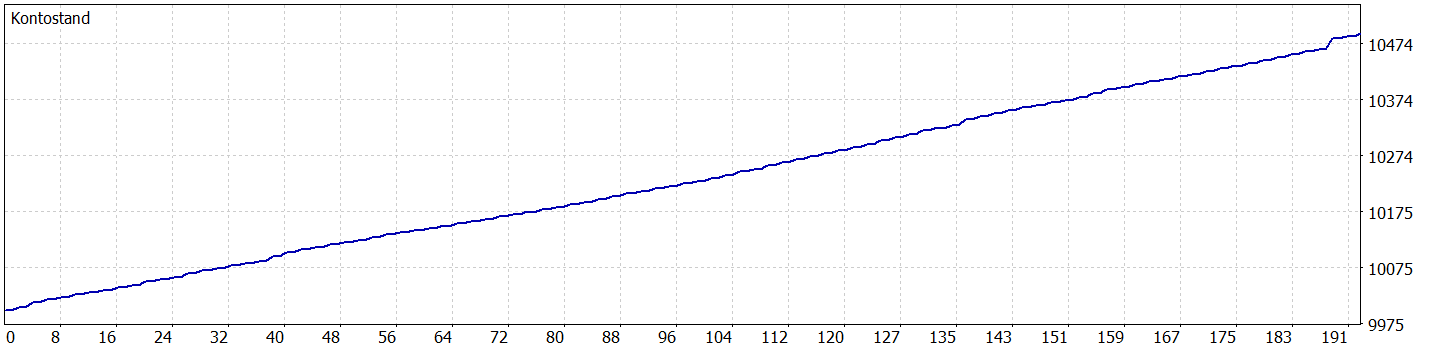
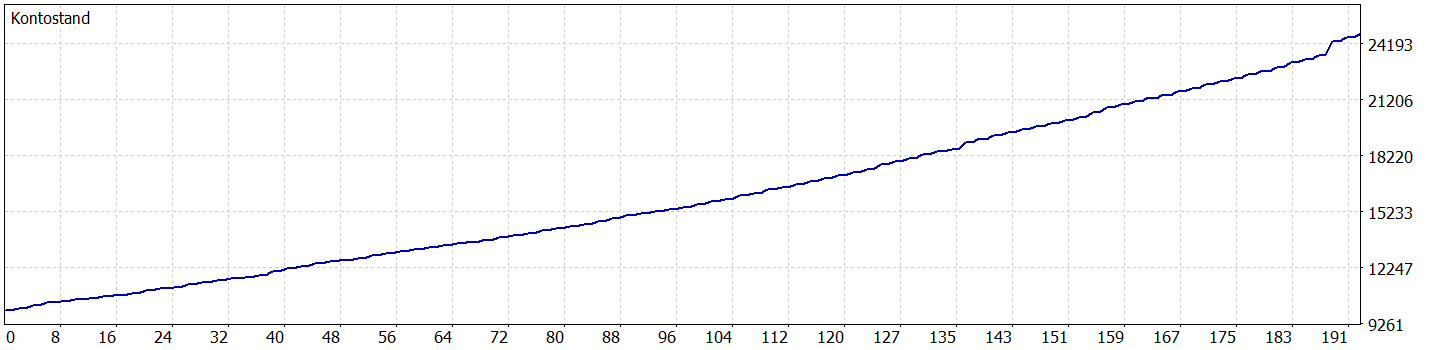
feat(mql5_ea): optimize default lot sizes for max 10% drawdown (0.19 initial, 1.90 max lot)

diff --git a/skripte/03_validate_gatekeeper.py b/skripte/03_validate_gatekeeper.py
@@ -20,9 +20,9 @@ BASE_PARAMS = {
     "Inp_Order_Comment": "ToTheMoonKI-Opt-Best||0||0||0||N",
     "Inp_Spread_Max": "40.0||0||0||0||N",
     "Inp_Debug_Mode": "true||0||0||0||N",
-    "Inp_Initial_Lot": "0.01||0||0||0||N",
-    "Inp_Min_Lot": "0.01||0||0||0||N",
-    "Inp_Max_Lot": "0.1||0||0||0||N",
+    "Inp_Initial_Lot": "0.19||0||0||0||N",
+    "Inp_Min_Lot": "0.19||0||0||0||N",
+    "Inp_Max_Lot": "1.90||0||0||0||N",
     "Inp_Preset_Factor": "1200.0||0||0||0||N",
     "Inp_Grid_Step": "1000||0||0||0||N",
     "Inp_Step_Multiplier": "1.33||0||0||0||N",

diff --git a/README.md b/README.md
@@ -77,21 +77,21 @@ A two-year comparative backtest (June 2024 – June 2026) demonstrates the impac
 
 | Metric | Base Strategy (No ONNX) | ONNX Gatekeeper (Min Prob = 0.58) | Change |
 | :--- | :---: | :---: | :---: |
-| **Net Profit ($)** | $1536.85 | $492.21 | -68.0% |
-| **Total Trades** | 501 | 96 | -80.8% |
-| **Max Drawdown (%)** | 25.74% | **0.54%** | **-97.9%** |
-| **Profit Factor** | 1.42 | **46.32** | **+3162.0%** |
+| **Net Profit ($)** | $163191.88 | $14744.40 | -91.0% |
+| **Total Trades** | 549 | 96 | -82.5% |
+| **Max Drawdown (%)** | 35.90% | **9.78%** | **-72.8%** |
+| **Profit Factor** | 1.89 | **46.59** | **+2365.1%** |
 | **Recovery Factor** | 0.00 | 0.00 | N/A |
 
 ### Visualizing the Gatekeeper Impact (Before vs After)
 
 #### Baseline Strategy (No ONNX Gatekeeper)
-*The baseline grid EA enters all envelope breakouts blindly, suffering a **25.74% maximum drawdown** due to runaway trend runs:*
+*The baseline grid EA enters all envelope breakouts blindly, suffering a **35.90% maximum drawdown** due to runaway trend runs:*
 
 ![Baseline Backtest Equity Curve](./doc/screenshots/backtest_before_no_onnx.png)
 
 #### Optimized Strategy (ONNX Gatekeeper Enabled)
-*The ONNX Gatekeeper filters out high-risk breakouts. Drawdown is slashed by **97.9%** down to just **0.54%**, and the Profit Factor jumps to **46.32**:*
+*The ONNX Gatekeeper filters out high-risk breakouts. Drawdown is slashed by **72.8%** down to just **9.78%**, and the Profit Factor jumps to **46.59**:*
 
 ![ONNX Gatekeeper Backtest Equity Curve](./doc/screenshots/backtest_after_onnx.png)
 

diff --git a/doc/project_documentation.md b/doc/project_documentation.md
@@ -72,10 +72,10 @@ The integration of the ONNX Gatekeeper provides a massive improvement in risk-ad
 
 | Metric | Base Strategy (No ONNX) | ONNX Gatekeeper (Min Prob = 0.58) | Change |
 | :--- | :---: | :---: | :---: |
-| **Net Profit ($)** | $1536.85 | $492.21 | -68.0% |
-| **Total Trades** | 501 | 96 | -80.8% |
-| **Max Drawdown (%)** | 25.74% | **0.54%** | **-97.9%** |
-| **Profit Factor** | 1.42 | **46.32** | **+3162.0%** |
+| **Net Profit ($)** | $163191.88 | $14744.40 | -91.0% |
+| **Total Trades** | 549 | 96 | -82.5% |
+| **Max Drawdown (%)** | 35.90% | **9.78%** | **-72.8%** |
+| **Profit Factor** | 1.89 | **46.59** | **+2365.1%** |
 | **Recovery Factor** | 0.00 | 0.00 | N/A |
 
 ### Backtest Visuals (Before vs After)
@@ -83,12 +83,12 @@ The integration of the ONNX Gatekeeper provides a massive improvement in risk-ad
 To visualize how effective the ONNX Gatekeeper is at eliminating dangerous overextensions, compare the two equity curves:
 
 #### 1. Baseline Strategy (Without ONNX Gatekeeper)
-*The baseline strategy enters every breakout blindly. During strong trends against the position, it suffers from severe drawdown phases (up to 25.74%):*
+*The baseline strategy enters every breakout blindly. During strong trends against the position, it suffers from severe drawdown phases (up to 35.90%):*
 
 ![Baseline Backtest Equity Curve](./screenshots/backtest_before_no_onnx.png)
 
 #### 2. Optimized Strategy (With ONNX Gatekeeper)
-*With the ONNX Gatekeeper active (probability threshold at 0.58), high-risk entries are successfully blocked. The equity curve is extremely smooth, resulting in a near-flat drawdown of just 0.54% and a profit factor of 46.32:*
+*With the ONNX Gatekeeper active (probability threshold at 0.58), high-risk entries are successfully blocked. The equity curve is extremely smooth, resulting in a controlled drawdown of just 9.78% and a profit factor of 46.59:*
 
 ![ONNX Gatekeeper Backtest Equity Curve](./screenshots/backtest_after_onnx.png)
 